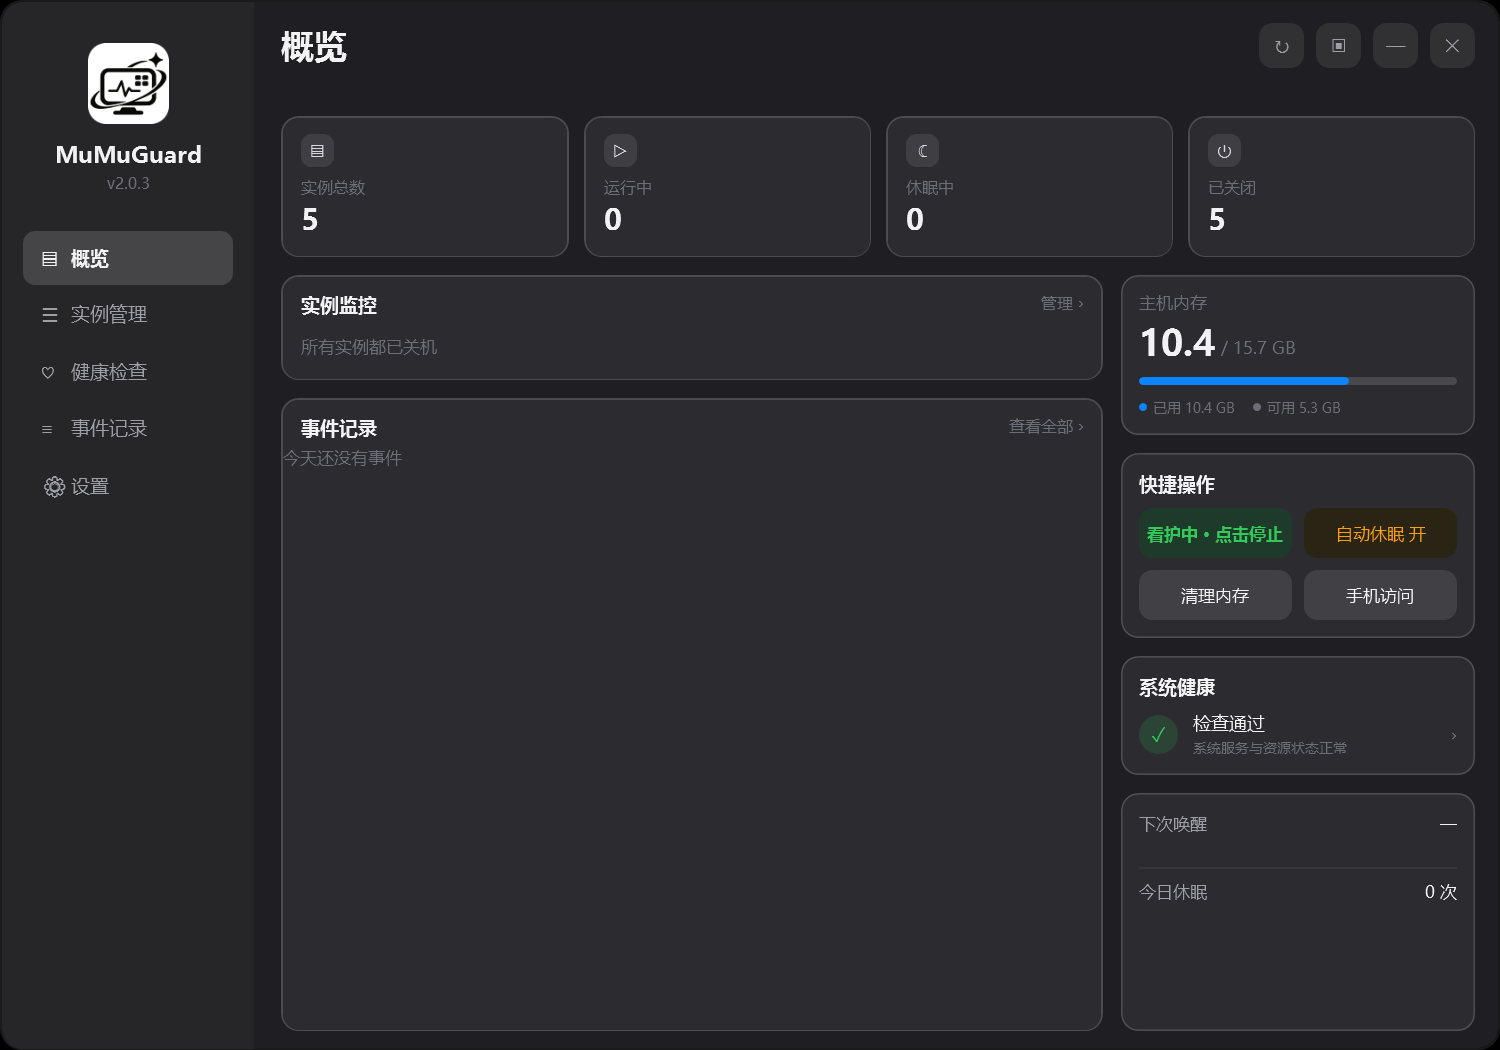
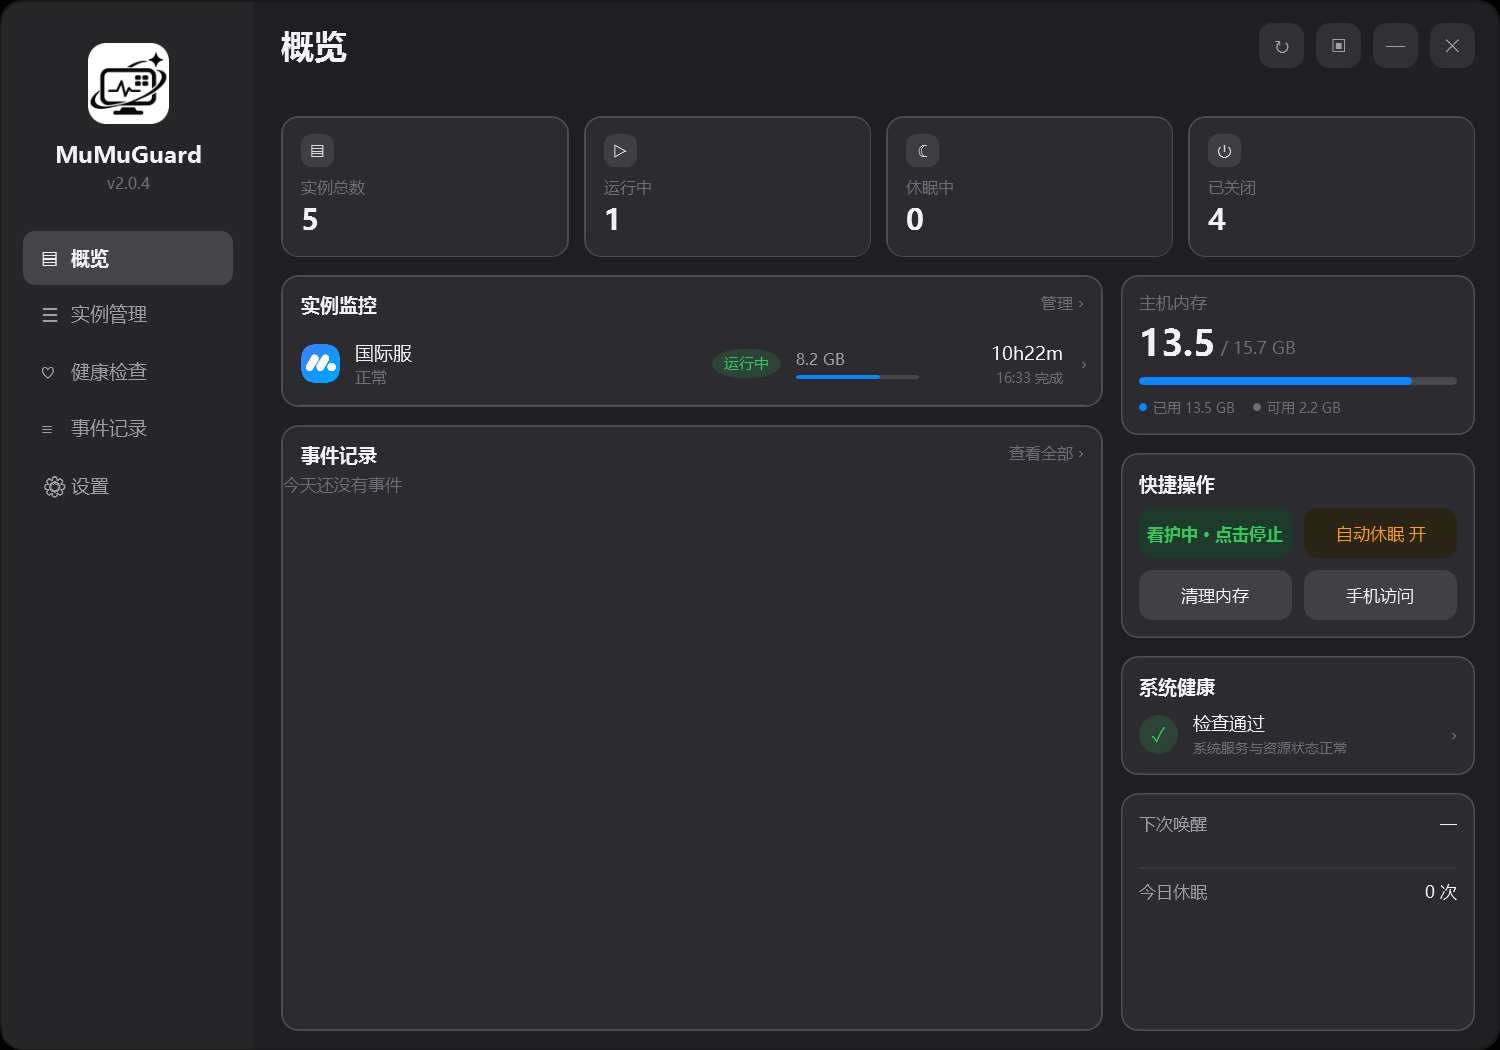
2.0.4：手机端补全已关机实例（总数与桌面一致）、事件列表改为最新在前；自检增加远程状态一致性检查（32 项）

diff --git a/README.md b/README.md
@@ -4,7 +4,7 @@
 
 盯着每个实例，掉线自动拉起，等升级时休眠省内存，醒来自动接着跑。
 
-![版本](https://img.shields.io/badge/version-2.0.3-3DDC84)
+![版本](https://img.shields.io/badge/version-2.0.4-3DDC84)
 ![平台](https://img.shields.io/badge/platform-Windows%2010%20%7C%2011-0A0D14)
 ![许可](https://img.shields.io/badge/license-MIT-blue)
 ![QQ 群](https://img.shields.io/badge/QQ%E7%BE%A4-1128379535-12B7F5)
